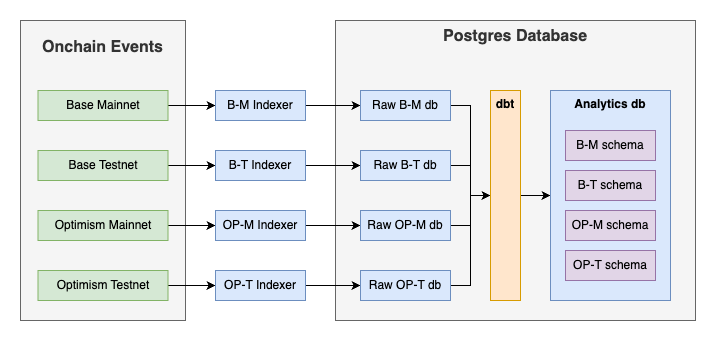
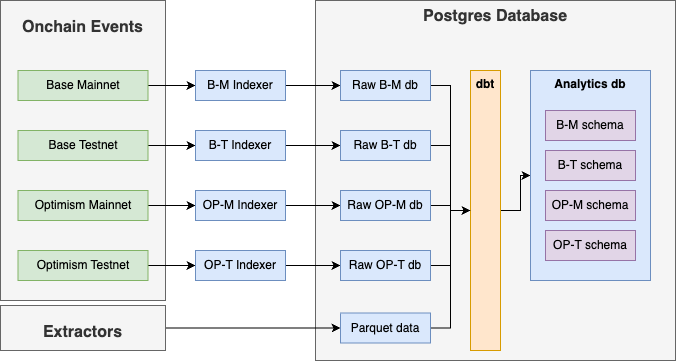
add extractor docs (#45)

diff --git a/README.md b/README.md
@@ -11,6 +11,7 @@ At a high level, the data stack contains a set of services to listen to onchain 
 Read more about each service:
 * [**Database**](./postgres/) - A Postgres database used to store raw and transformed data.
 * [**Indexers**](./indexers/) - Blockchain indexers using Subsquid archives to index Synthetix smart contracts. These indexers are used to populate a Postgres database with raw event log data.
+* [**Extractors**](./extractors/) - Scripts that extract blockchain data using `eth_call` RPC calls and [cryo](https://github.com/paradigmxyz/cryo). Data is stored in the a `parquet-data` directory, and will be imported into the Postgres database using the Transformers service.
 * [**Transformers**](./transformers/) - Services that transform raw event log data into a format that is more useful for querying. These services are used to populate a Postgres database with transformed data using [dbt](https://www.getdbt.com/).
 * [**Dashboard**](./dashboard/) - A collection of dashboards built using [streamlit](https://streamlit.io/) and connected directly to the Postgres database.
 
@@ -34,14 +35,25 @@ Once you have configured your environment, run `docker compose up -d --build` to
 
 The dashboard service relies on transformed data in the `analytics` database. To populate this database, you must run the transformers.
 
+### Run Extractors
+
+To populate the `parquet-data` directory with data, you must run the extractors. These scripts will run the `eth_call` RPC method for each of the specified calls in the `extractors/main.py` file. To run the extractors, use the following command:
+
+```bash
+make extract
+```
+
+You can view the data in the `parquet-data` directory, which should contain both `raw` and `clean` directories populated with data for each network.
+
 ### Running Transformers
 
 To simplify queries and transformed data, you must run the transformers to populate the `analytics` database. This happens in two steps, first by wrapping the raw tables as foreigns tables in the `analytics` database, then running dbt for each of the relevant schemas. To do this, run:
 
 ```bash
-make build
-make wrap
-make dbt
+make build  # build the docker image for the transformers
+make wrap   # wrap the raw tables as foreign tables in the analytics database
+make import # import the data from the parquet files into the database
+make dbt    # run dbt for each network
 ```
 
 You should see output confirming that dbt has run for each network, and created a set of tables and views in the `analytics` database. The running dashboard service will automatically detect these tables and views and populate the dashboards with data. To view the dashboards, visit `http://localhost:<DASHBOARD_PORT>` in your browser.

diff --git a/extractors/README.md b/extractors/README.md
@@ -1,0 +1,39 @@
+# Extractors
+
+This services makes use of [cryo](https://github.com/paradigmxyz/cryo) to extract data using `eth_call` RPC calls. This is required to fetch any data which can't be indexed from event logs. The extracted data is stored in the `parquet-data` directory, and will be imported into the Postgres database using the [Transformers](../transformers/) service.
+
+## Usage
+
+Start the extractor using a `make` command from the root directory.
+```bash
+## start the extractor
+make extract
+
+## import the parquet data into the database
+make import
+```
+
+## Configuration
+
+In order to prepare the data for these calls, the service uses the Synthetix [python-sdk](https://github.com/Synthetixio/python-sdk) and cryo. The `extractors/main.py` file contains a list of calls to be made. The process is as follows:
+1. The Synthetix SDK will prepare the call data
+1. The call data is passed to cryo to make the `eth_call` requests and store the data in the `parquet-data/raw/<network>` directory
+1. The output data is decoded and cleaned using polars and duckdb, and stored in the `parquet-data/clean/<network>` directory
+
+## Adding Calls
+
+Each call is configured like so:
+```python
+{
+    "network_id": 8453,
+    "contract_name": "CoreProxy",
+    "function_name": "getVaultDebt",
+    "inputs": [
+        (1, "0xC74eA762cF06c9151cE074E6a569a5945b6302E7"),
+    ],
+    "min_block": "7.5M",
+    "requests_per_second": 25,
+}
+```
+
+In order to succeed, the contract must be present in the Synthetix SDK. The contract and function names will be used to prepare the call data and to decode the result. The inputs are passed to the function as arguments. The `min_block` is used to filter out calls that are too old. The `requests_per_second` is used to throttle the requests to the node.
